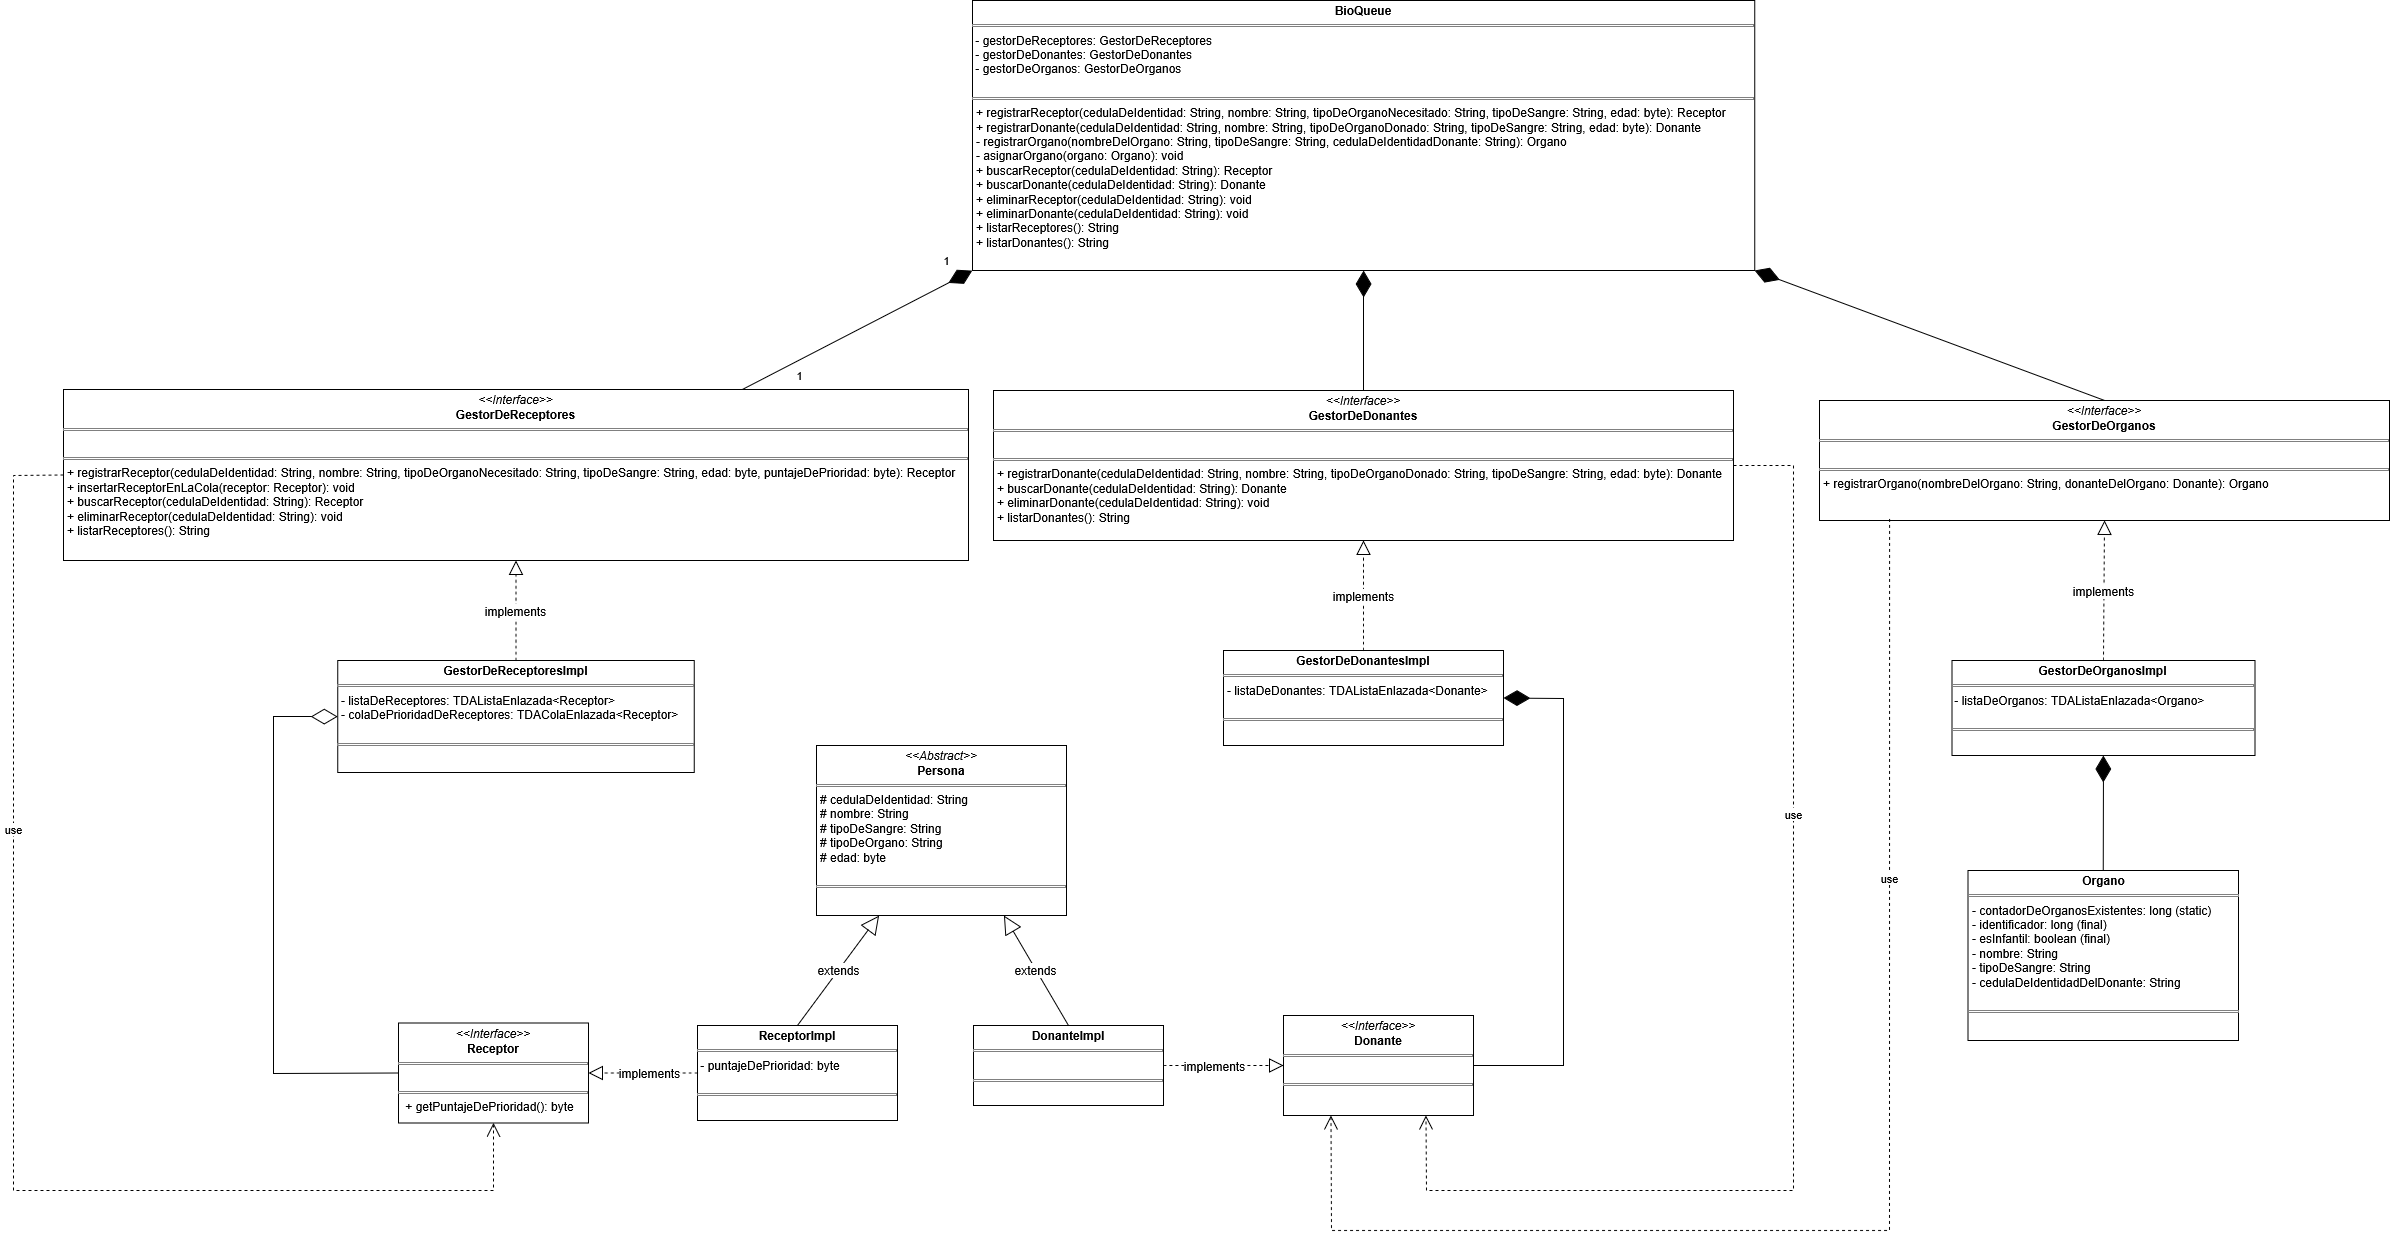
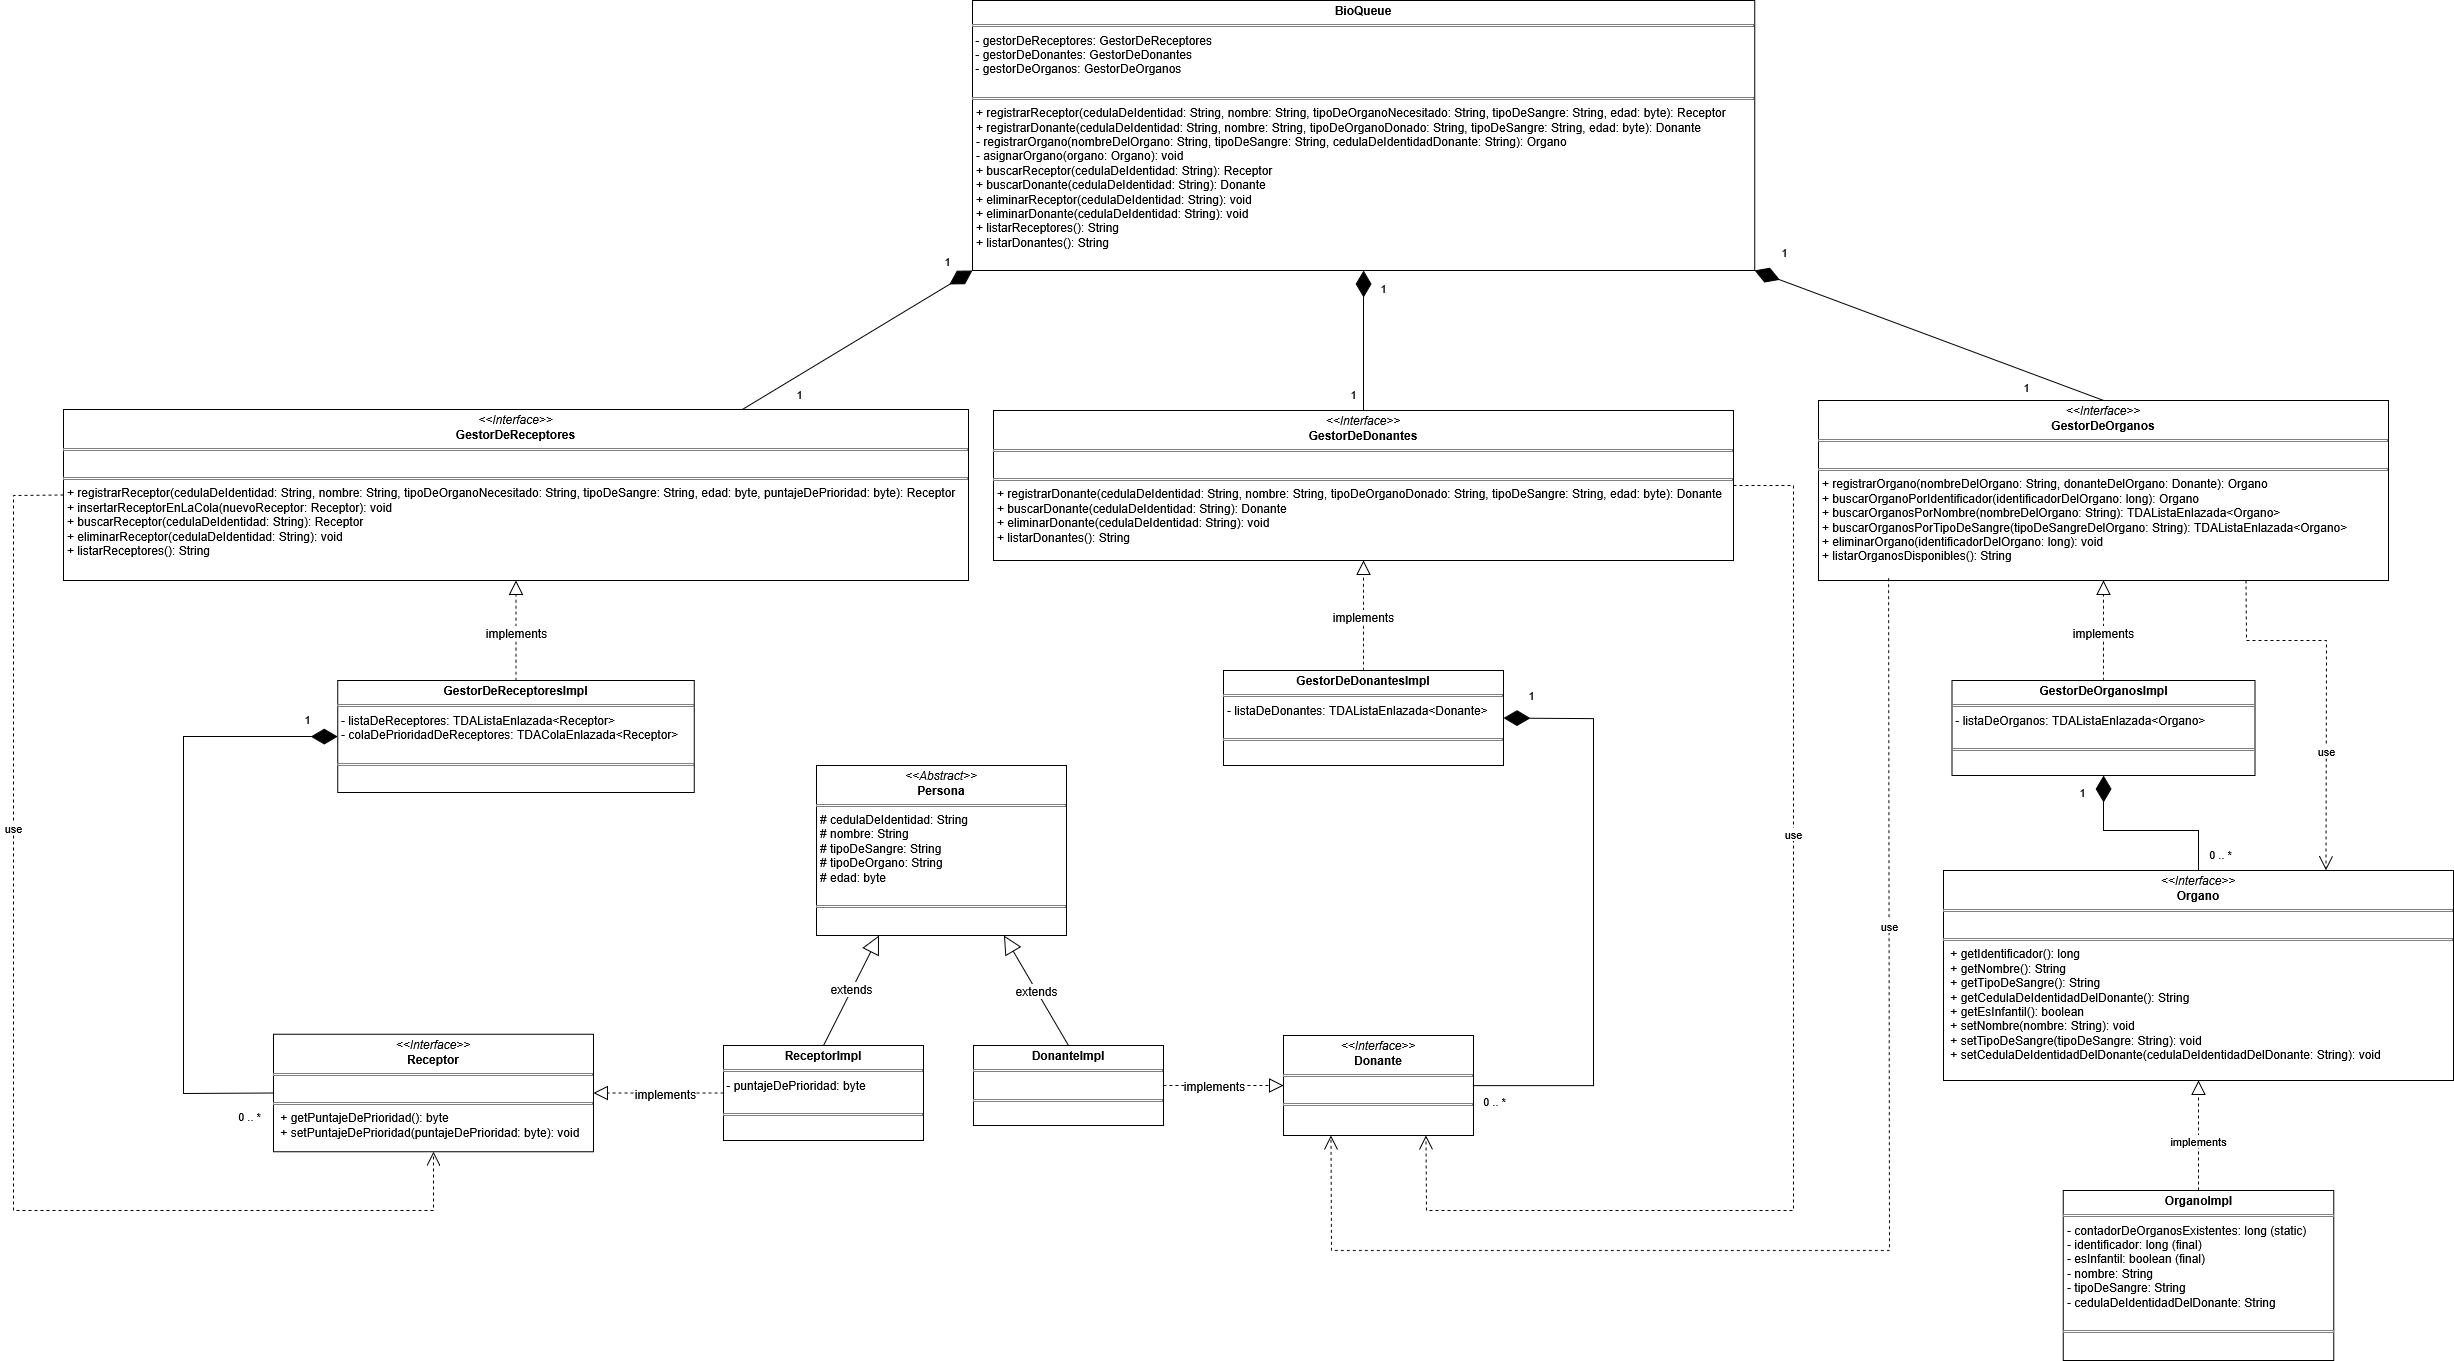
Subimos la tercera versión del UML.

diff --git a/src/main/java/uy/edu/curso/services/GestorDeOrganosImpl.java b/src/main/java/uy/edu/curso/services/GestorDeOrganosImpl.java
@@ -64,14 +64,14 @@ public class GestorDeOrganosImpl implements GestorDeOrganos {
     }
 
     @Override
-    public TDAListaEnlazada<Organo> buscarOrganosPorTipoDeSangre(String tipoDeSangre) {
+    public TDAListaEnlazada<Organo> buscarOrganosPorTipoDeSangre(String tipoDeSangreDelOrgano) {
         TDAListaEnlazada<Organo> listaDeOrganosConCoincidenciaDeTipoDeSangre = new ListaEnlazada<>();
         int i = 0;
 
         while (i < this.listaDeOrganos.tamaño()) {
             String tipoDeSangreEncontrado = this.listaDeOrganos.obtener(i).getTipoDeSangre();
 
-            if (tipoDeSangreEncontrado.equals(tipoDeSangre)) {
+            if (tipoDeSangreEncontrado.equals(tipoDeSangreDelOrgano)) {
                 listaDeOrganosConCoincidenciaDeTipoDeSangre.agregar(this.listaDeOrganos.obtener(i));
             }
             i++;

diff --git a/src/main/java/uy/edu/curso/interfaces/Organo.java b/src/main/java/uy/edu/curso/interfaces/Organo.java
@@ -1,5 +1,6 @@
 package uy.edu.curso.interfaces;
 
+
 public interface Organo {
 
     long getIdentificador();